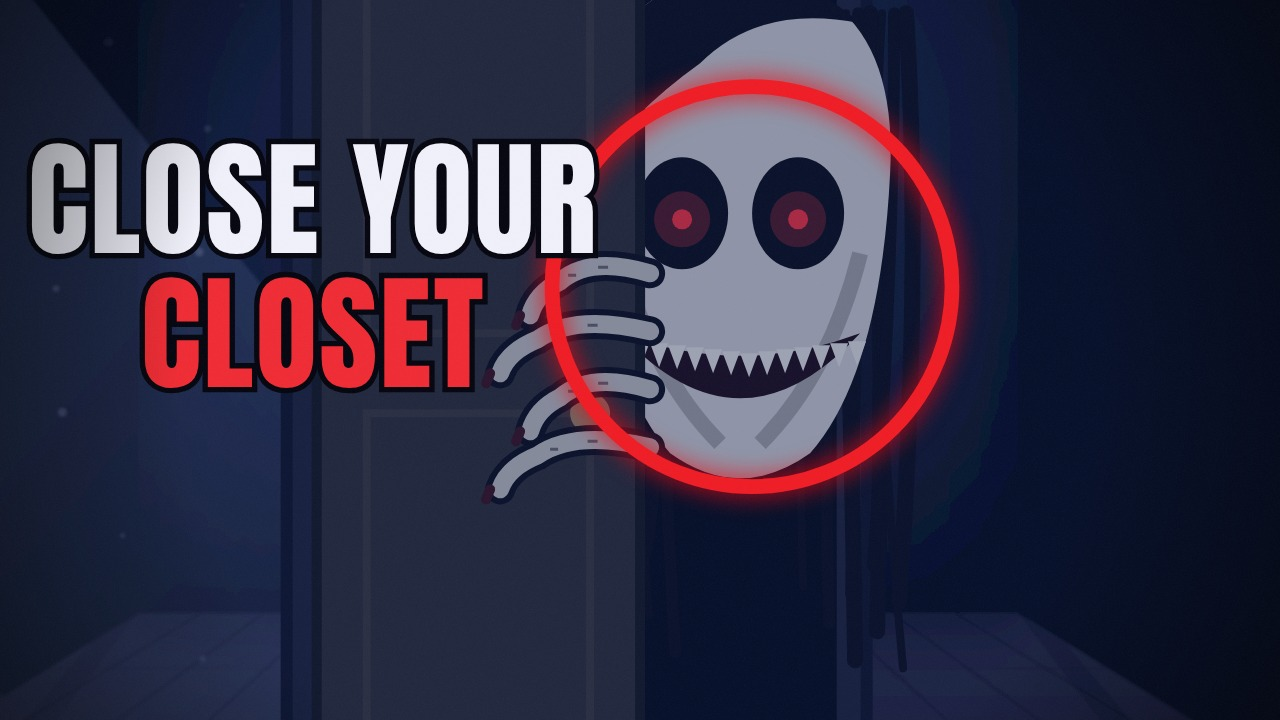
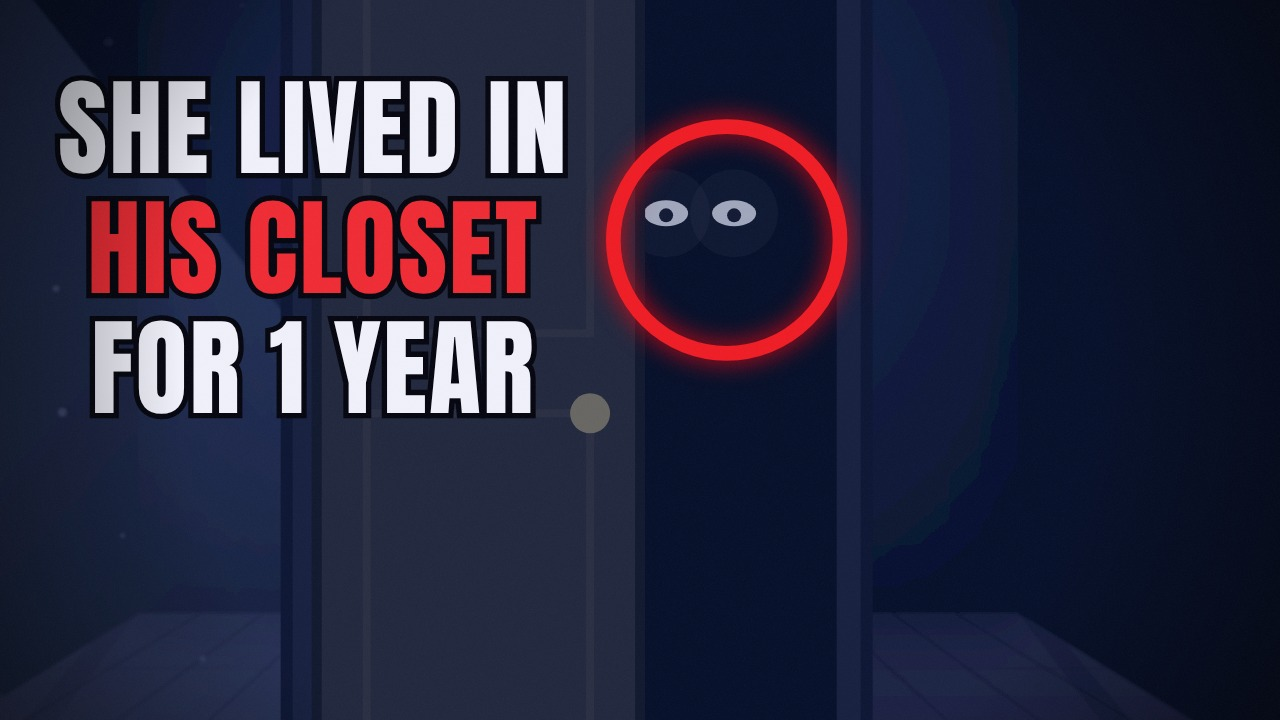
3 AM Stories 008: rebuilt on the real 2008 Japan closet case; eyes-only closet mode
Claude-Session: https://claude.ai/code/session_019ai2m2MxcJnxMHWqzPuaSF

Changed region(s): [[0.0, 0.0, 0.7812, 0.7028]]

diff --git a/channels/3am-stories/engine/scenes.js b/channels/3am-stories/engine/scenes.js
@@ -862,7 +862,8 @@ S.closet = (t, d, p) => {
       <path d="M${edge - L * 0.75} ${y + 8} m-${L * 0.25} 34 l-4 10" stroke="#3a0808" stroke-width="10" stroke-linecap="round"/>
       <path d="M${edge - L * 0.35} ${y - 6} h10 M${edge - L * 0.6} ${y + 2} h8" stroke="#6a645a" stroke-width="3"/>`; }).join('') : '';
   const fx = edge + 100, fy = 780, blink = p.blink && t % 2 > 1.85;
-  const eyes = p.eyes ? `<g opacity="${p.eyes}">
+  const eyes = p.eyes && p.eyesOnly ? `<g opacity="${p.eyes}">${[-34, 34].map((dx) => `<ellipse cx="${fx - 40 + dx}" cy="${fy}" rx="22" ry="${blink ? 2 : 13}" fill="#f4efe6"/><circle cx="${fx - 40 + dx}" cy="${fy + 2}" r="7" fill="#080404"/><circle cx="${fx - 40 + dx}" cy="${fy}" r="44" fill="#fff" opacity=".05"/>`).join('')}</g>`
+    : p.eyes ? `<g opacity="${p.eyes}">
       ${[...Array(18)].map((_, k) => { const sx = k < 9 ? fx - 170 + k * 12 : fx + 70 + (k - 9) * 12;
         return `<path d="M${sx} ${fy - 200} q${(k % 3 - 1) * 16} 260 ${(k % 4 - 1.5) * 14} ${520 + (k * 37 % 140)}" stroke="#050404" stroke-width="${8 + k % 3 * 4}" fill="none" stroke-linecap="round"/>`; }).join('')}
       <path d="M${fx - 150} ${fy - 40} Q${fx - 160} ${fy - 230} ${fx} ${fy - 240} Q${fx + 160} ${fy - 230} ${fx + 150} ${fy - 40} Q${fx + 140} ${fy + 160} ${fx + 70} ${fy + 240} Q${fx} ${fy + 290} ${fx - 70} ${fy + 240} Q${fx - 140} ${fy + 160} ${fx - 150} ${fy - 40}Z" fill="#d8d2c6"/>
